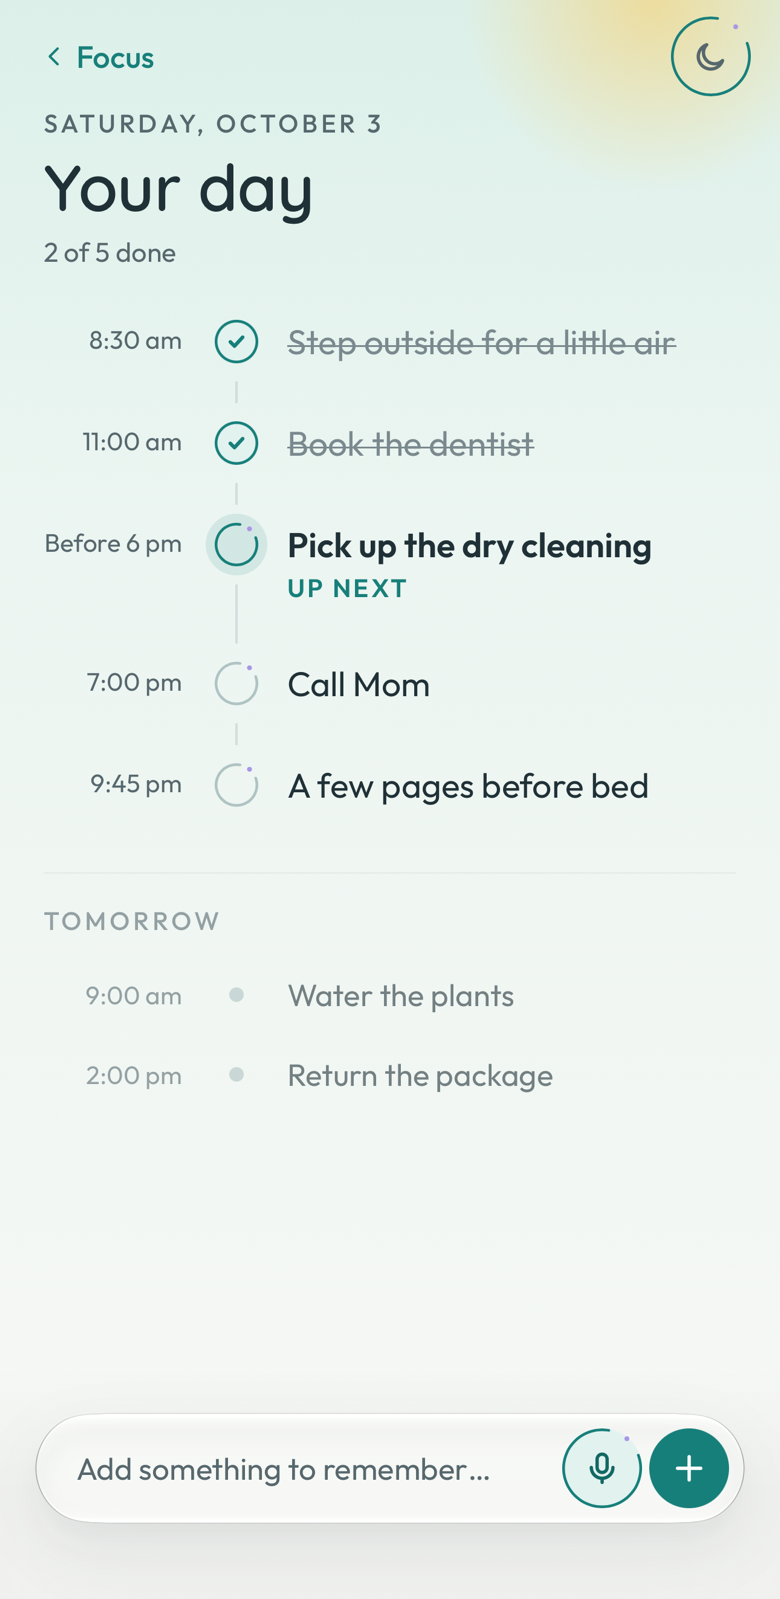
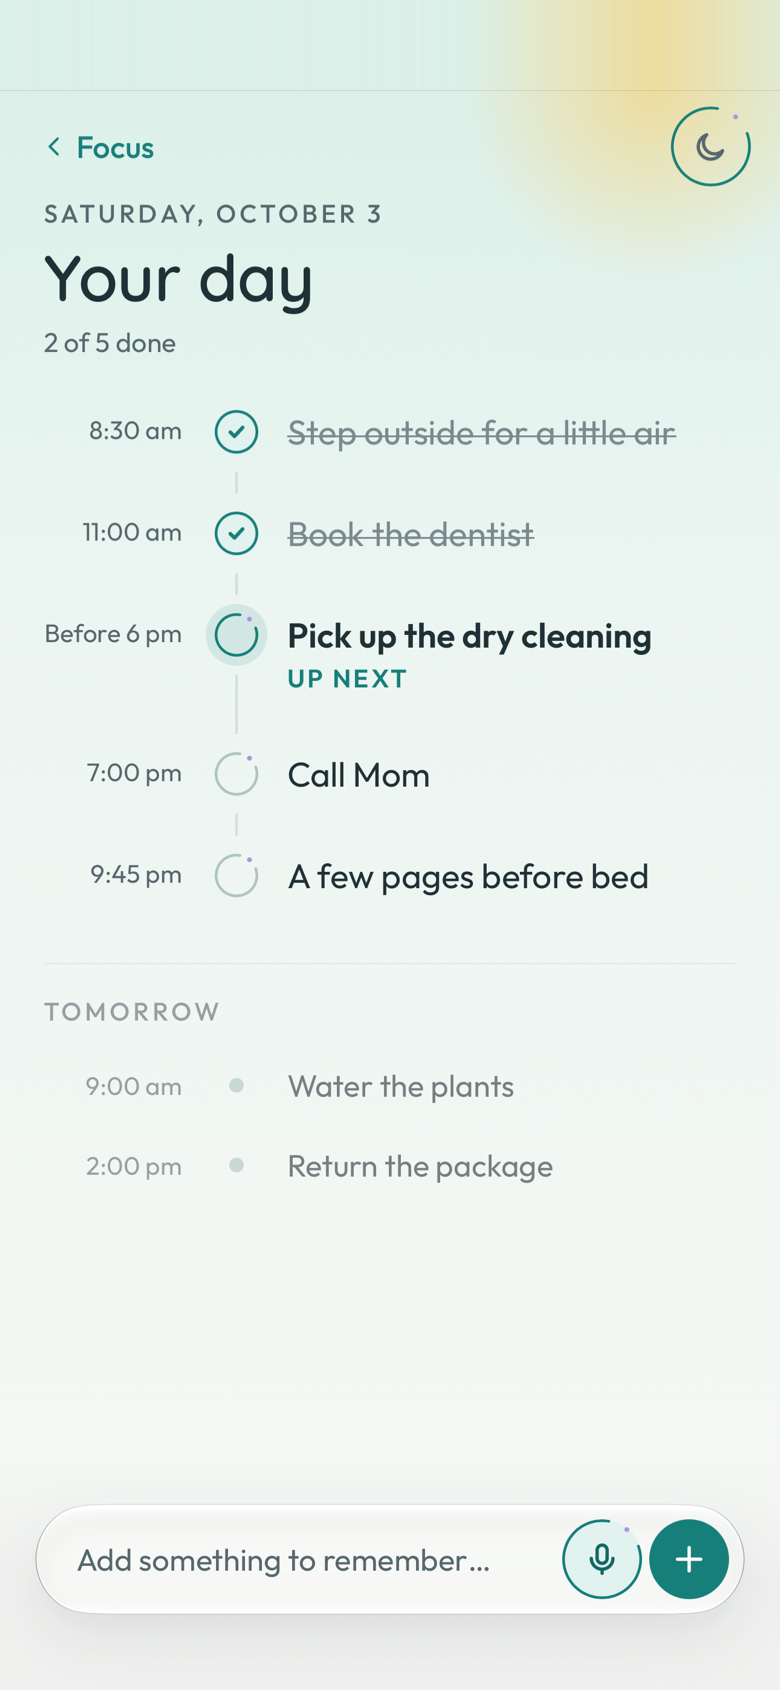
Show screenshots in an iPhone frame, keyboard under the compose shot

diff --git a/index.html b/index.html
@@ -28,7 +28,7 @@
       <span class="badge soon">Coming soon to the App Store</span>
       <p class="note">No account. No ads. Everything stays on your iPhone.</p>
     </div>
-    <div class="phone"><img src="assets/focus.png" width="780" height="1599" alt="Reminda's Focus screen showing one reminder, Pick up the dry cleaning, with Done and Reschedule buttons"></div>
+    <div class="phone"><img src="assets/focus.png" width="780" height="1690" alt="Reminda's Focus screen showing one reminder, Pick up the dry cleaning, with Done and Reschedule buttons"></div>
   </section>
 </div>
 
@@ -40,7 +40,7 @@
         <h2>One thing at a time.</h2>
         <p>Focus shows the next thing that needs you, big and clear. Mark it done with a tap, or move it to later with a few words like “Friday 3pm” or “in 2 hours”.</p>
       </div>
-      <div class="phone"><img src="assets/day.png" width="780" height="1599" loading="lazy" alt="Your day timeline with two reminders done, the next one highlighted, and tomorrow below"></div>
+      <div class="phone"><img src="assets/day.png" width="780" height="1690" loading="lazy" alt="Your day timeline with two reminders done, the next one highlighted, and tomorrow below"></div>
     </div>
 
     <div class="feature flip">
@@ -49,7 +49,7 @@
         <h2>Type it. Or say it.</h2>
         <p>“Water the plants every Mon, Wed and Fri at 8am.” Reminda picks out the title, the time and the repeat. Use the microphone if you'd rather talk, and typing always works too.</p>
       </div>
-      <div class="phone"><img src="assets/compose.png" width="780" height="958" loading="lazy" alt="The add sheet with the text 'Water the plants every Mon, Wed and Fri at 8am' understood as a repeating reminder"></div>
+      <div class="phone"><img src="assets/compose.png" width="780" height="1690" loading="lazy" alt="The add sheet with the text 'Water the plants every Mon, Wed and Fri at 8am' understood as a repeating reminder"></div>
     </div>
 
     <div class="feature">
@@ -58,7 +58,7 @@
         <h2>Check it before it's saved.</h2>
         <p>A review screen shows exactly what Reminda understood: the title, the date and time, the repeat. Fix anything, then save. Prefer speed? Turn on instant adding in Settings.</p>
       </div>
-      <div class="phone"><img src="assets/review.png" width="780" height="1599" loading="lazy" alt="The review screen for a repeating reminder showing date, time and repeat rule"></div>
+      <div class="phone"><img src="assets/review.png" width="780" height="1690" loading="lazy" alt="The review screen for a repeating reminder showing date, time and repeat rule"></div>
     </div>
 
     <div class="feature flip">
@@ -67,7 +67,7 @@
         <h2>Make it feel like yours.</h2>
         <p>Add your name to the greeting and choose the app icon that suits your Home Screen. Light and dark follow your iPhone.</p>
       </div>
-      <div class="phone"><img src="assets/settings.png" width="780" height="1599" loading="lazy" alt="Settings with a greeting name field and a choice of four app icons"></div>
+      <div class="phone"><img src="assets/settings.png" width="780" height="1690" loading="lazy" alt="Settings with a greeting name field and a choice of four app icons"></div>
     </div>
   </div>
 </section>

diff --git a/style.css b/style.css
@@ -62,9 +62,30 @@ h1 { font-size: clamp(40px, 6vw, 64px); line-height: 1.05; margin: 0 0 20px; fon
 .badge.soon { opacity: 0.9; cursor: default; }
 .note { font-size: 15px; color: var(--muted); margin-top: 14px; }
 
+/* iPhone shell: titanium bezel, Dynamic Island and side buttons around a screenshot */
 .phone {
-  border-radius: 38px; overflow: hidden; background: var(--card);
-  box-shadow: var(--shadow); border: 1px solid var(--line);
+  --bezel: 11px;
+  position: relative;
+  padding: var(--bezel);
+  border-radius: 56px;
+  background: linear-gradient(145deg, #4a5053 0%, #23282a 45%, #121516 100%);
+  box-shadow:
+    inset 0 0 0 1.5px rgba(255, 255, 255, 0.22),
+    inset 0 0 0 4px #0b0d0e,
+    var(--shadow);
+}
+.phone img { border-radius: calc(56px - var(--bezel)); background: var(--bg-wash); }
+.phone::before { /* Dynamic Island */
+  content: ""; position: absolute; z-index: 2;
+  top: calc(var(--bezel) + 11px); left: 50%; transform: translateX(-50%);
+  width: 31%; height: 3.1%; max-height: 28px; min-height: 18px;
+  background: #050606; border-radius: 999px;
+}
+.phone::after { /* action + volume buttons */
+  content: ""; position: absolute; left: -3px; top: 15%;
+  width: 3px; height: 4%; border-radius: 2px 0 0 2px;
+  background: #2a2f31;
+  box-shadow: 0 calc(5vh - 1px) 0 0 #2a2f31, 0 calc(10vh - 2px) 0 0 #2a2f31;
 }
 .hero .phone { max-width: 340px; margin-inline: auto; }
 
